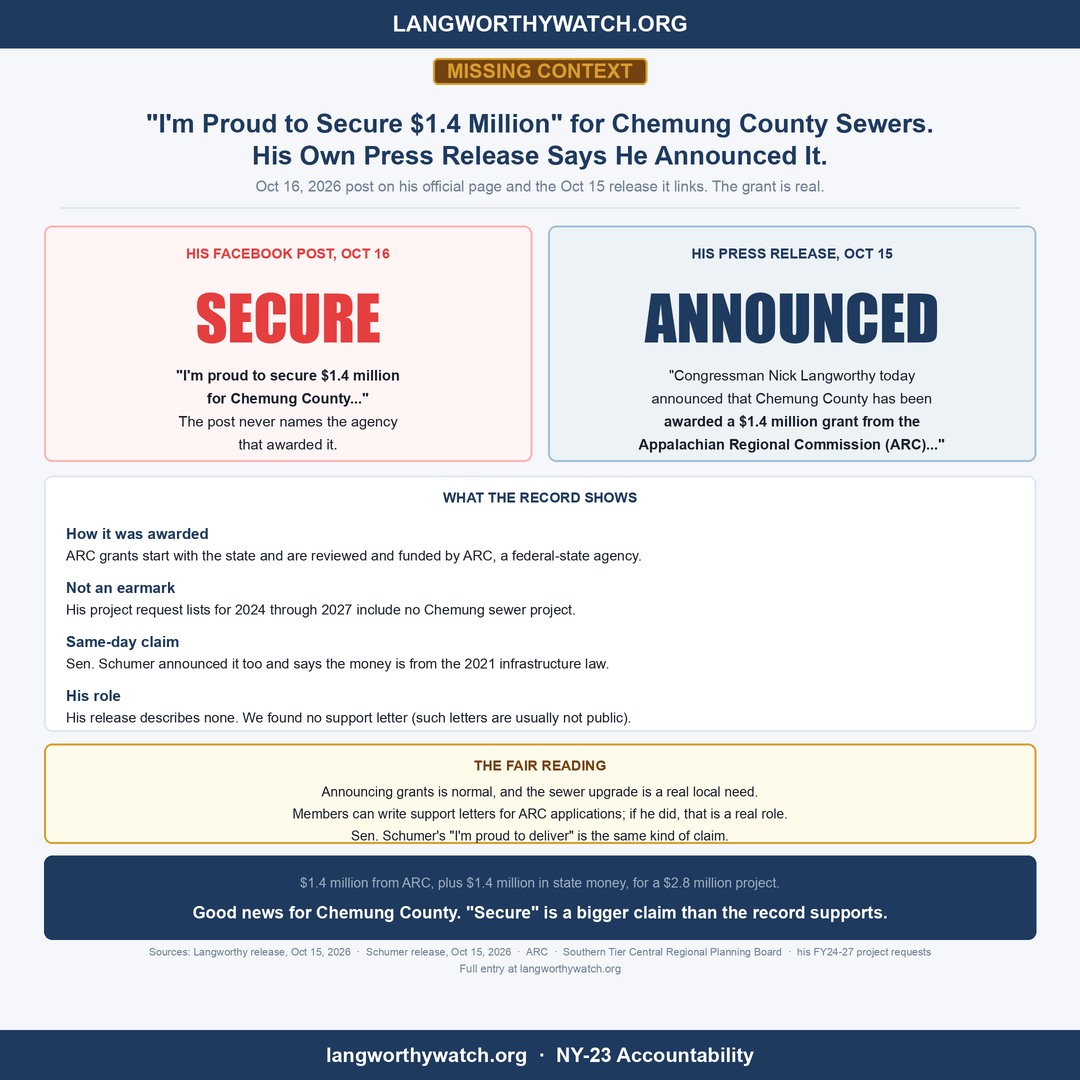
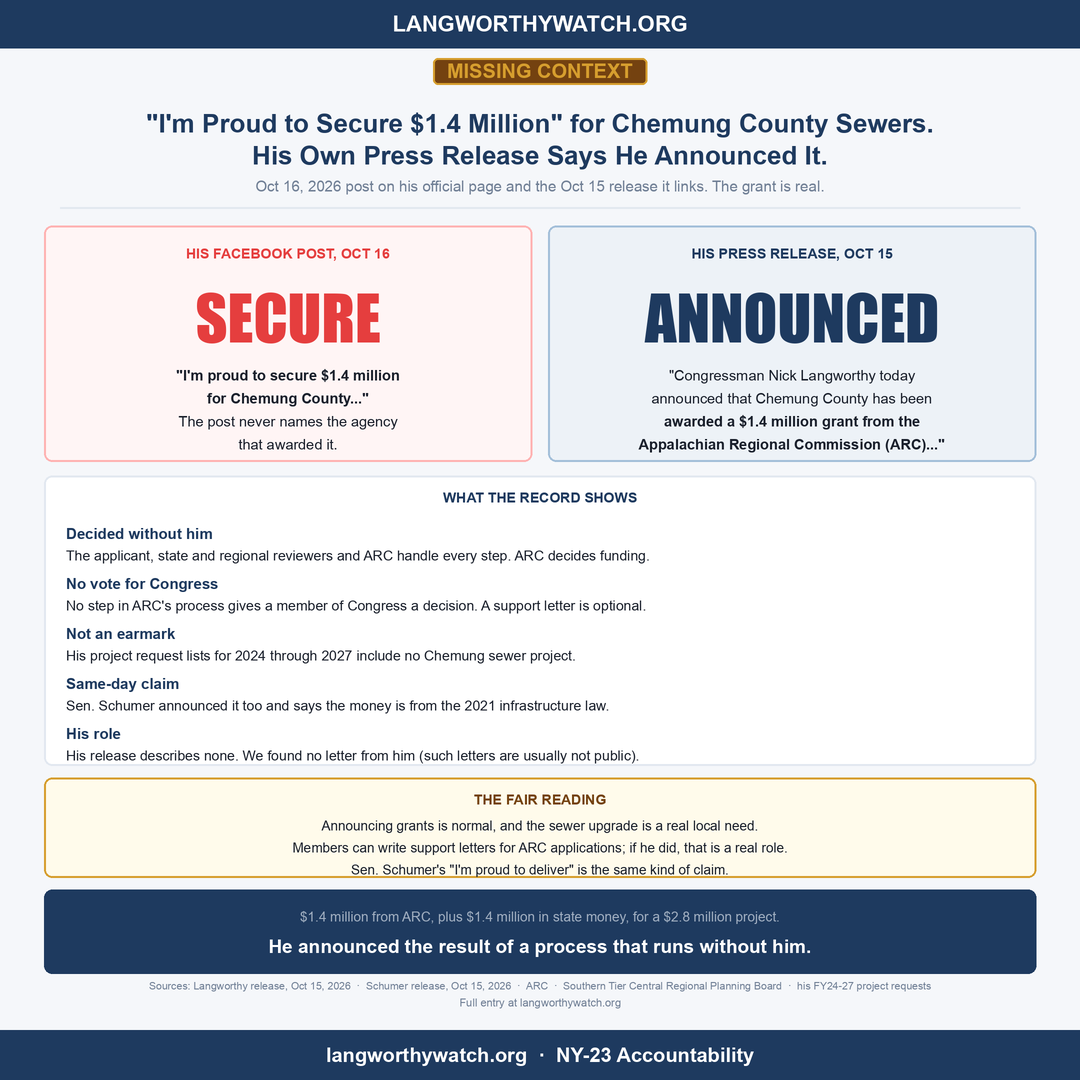
ARC entry, card, caption: state explicitly that the award process runs without him

Changed region(s): [[0.0306, 0.4889, 0.9778, 0.9472]]

diff --git a/social-media/create_chemung_arc_card.py b/social-media/create_chemung_arc_card.py
@@ -39,11 +39,12 @@ for i, ln in enumerate(['"Congressman Nick Langworthy today', 'announced that Ch
 y = top + hero_h + 14
 
 # ---- the record ------------------------------------------------------------------------
-rows = [("How it was awarded", "ARC grants start with the state and are reviewed and funded by ARC, a federal-state agency."),
+rows = [("Decided without him", "The applicant, state and regional reviewers and ARC handle every step. ARC decides funding."),
+        ("No vote for Congress", "No step in ARC's process gives a member of Congress a decision. A support letter is optional."),
         ("Not an earmark", "His project request lists for 2024 through 2027 include no Chemung sewer project."),
         ("Same-day claim", "Sen. Schumer announced it too and says the money is from the 2021 infrastructure law."),
-        ("His role", "His release describes none. We found no support letter (such letters are usually not public).")]
-row_h = 54
+        ("His role", "His release describes none. We found no letter from him (such letters are usually not public).")]
+row_h = 50
 box_h = 40 + row_h * len(rows)
 c.panel(44, y, c.w - 44, y + box_h, fill=WHITE, outline=BORDER)
 c.text(c.w / 2, y + 22, "WHAT THE RECORD SHOWS", size=14, bold=True, fill=NAVY, anchor="mm")
@@ -67,7 +68,7 @@ y += fr_h + 12
 kick_h = 84
 c.panel(44, y, c.w - 44, y + kick_h, fill=NAVY, outline=None)
 c.text(c.w / 2, y + 27, "$1.4 million from ARC, plus $1.4 million in state money, for a $2.8 million project.", size=13.5, fill=LIGHTGRAY, anchor="mm")
-c.text(c.w / 2, y + 57, "Good news for Chemung County. \"Secure\" is a bigger claim than the record supports.", size=17, bold=True, fill=WHITE, anchor="mm")
+c.text(c.w / 2, y + 57, "He announced the result of a process that runs without him.", size=19, bold=True, fill=WHITE, anchor="mm")
 y += kick_h + 12
 
 c.text(c.w / 2, y, "Sources: Langworthy release, Oct 15, 2026  ·  Schumer release, Oct 15, 2026  ·  ARC  ·  Southern Tier Central Regional Planning Board  ·  his FY24-27 project requests",

diff --git a/content/fact-checks/2026-10-18-chemung-arc-sewer-credit-claim.md b/content/fact-checks/2026-10-18-chemung-arc-sewer-credit-claim.md
@@ -24,9 +24,11 @@ pump station, helping prepare a former military depot site for
 manufacturing, warehousing and logistics, according to his release.
 
 That is good news for the county. The question is the verb. Rep.
-Langworthy told constituents he was "proud to secure" the money. ARC
-grants in New York are applied for at the state level and reviewed by ARC,
-not awarded by members of Congress. Sen. Chuck Schumer, who announced the
+Langworthy told constituents he was "proud to secure" the money. But ARC
+grants are decided through a process that runs without him: applications
+are reviewed by regional and state officials and by ARC, and ARC decides
+whether to fund them. No step in ARC's published process gives a member of
+Congress a vote or a decision. Sen. Chuck Schumer, who announced the
 same grant the same day, says the money comes from a 2021 law, passed
 before Rep. Langworthy took office. His own press release describes no
 role for him in winning it.
@@ -67,6 +69,11 @@ told he secured the money; the release is where ARC is named.
 
 ## How ARC grants are awarded in New York
 
+**The decision is made without him.** In ARC's published process for New
+York, every step is handled by the applicant, a regional planning board,
+the state and ARC itself. A member of Congress does not apply, does not rate applications,
+does not approve them and does not decide funding.
+
 **ARC grants start with the state, not Congress.** ARC is a federal-state
 partnership. Its own guidance says: "All ARC Area Development grant
 proposals originate at the state level in consultation with the ARC state
@@ -90,8 +97,9 @@ track or process applied. In every ARC track, ARC itself decides funding.
 
 **Members of Congress can write support letters.** The board's 2027
 application presentation says: "Support Letters are good, and nice to have
-(particularly from your congressperson and your senators)." That is the
-only role for a member that the board's materials describe. His release
+(particularly from your congressperson and your senators)." That
+optional letter is the only role for a member that the board's materials
+describe; it is not a step in the decision. His release
 does not say he wrote one, and we found no record that he did; support
 letters are usually not made public.
 
@@ -120,10 +128,11 @@ Chemung Canal Connector grant but not this one. We also could not find the
 program track the money came from,
 or the source of the $1.4 million state match.
 
-In plain language: the county won a grant that ARC reviewed and funded,
-from money Sen. Schumer says Congress approved before Rep. Langworthy was
-in office. He announced it. The record shows no part he played in getting
-it, which is what "secure" claims.
+In plain language: the county applied and ARC decided, in a process that
+does not run through his office. The money,
+according to Sen. Schumer, comes from a law passed before Rep. Langworthy
+was in office. He announced the result. The record shows no part he played
+in getting it, which is what "secure" claims.
 
 ---
 

diff --git a/social-media/chemung_arc_post.md b/social-media/chemung_arc_post.md
@@ -9,14 +9,15 @@ The grant is real, and it's good news: $1.4 million from ARC plus $1.4 million i
 CLAIM: "I'm proud to secure $1.4 million for Chemung County."
 VERDICT: MISSING CONTEXT
 
-→ ARC is a federal-state agency. Its grants start with the state and are reviewed and funded by ARC, not awarded by members of Congress.
+→ The decision is made without him. ARC grants go through a process run by the applicant, regional and state reviewers, and ARC itself, a federal-state agency. ARC decides what gets funded.
+→ No step in that process gives a member of Congress a vote or a decision.
 → It's not an earmark. His project requests for 2024 through 2027 include no Chemung sewer project.
 → Sen. Schumer announced the same grant the same day and says the money comes from the 2021 infrastructure law, passed before Rep. Langworthy took office.
 → His release describes no role for him in winning the grant. The regional planning board says support letters from members of Congress are "nice to have." We found none from him, though such letters are usually not public.
 
 The fair reading: announcing grants is normal, and this one meets a real local need. If his office wrote a support letter, that's a real role, and we'll say so. And Sen. Schumer's "I'm proud to deliver" is the same kind of claim.
 
-But "secure" tells readers he got the money. The record shows he announced it.
+But "secure" tells readers he got the money. The record shows he announced the result of a process that runs without him.
 
 Don't take our word for it. His release, Schumer's release and ARC's own process are all linked in the entry.
 
